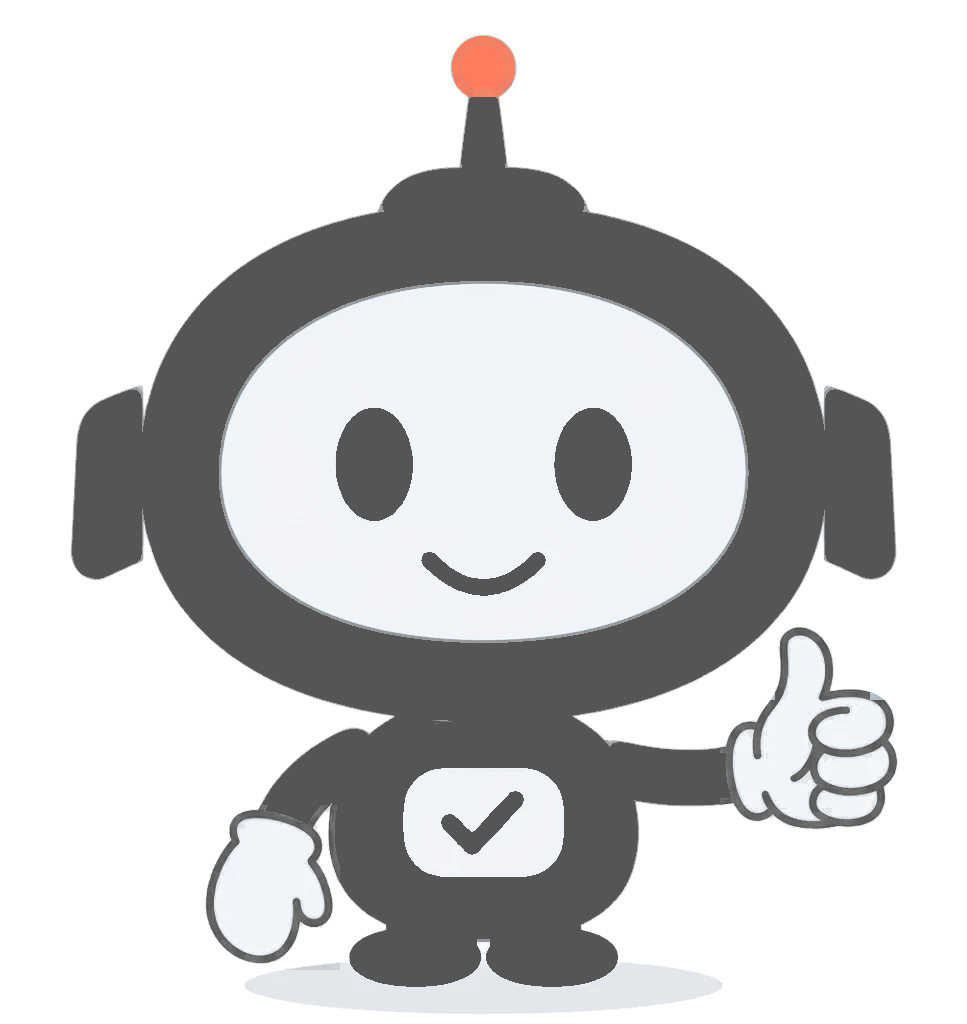
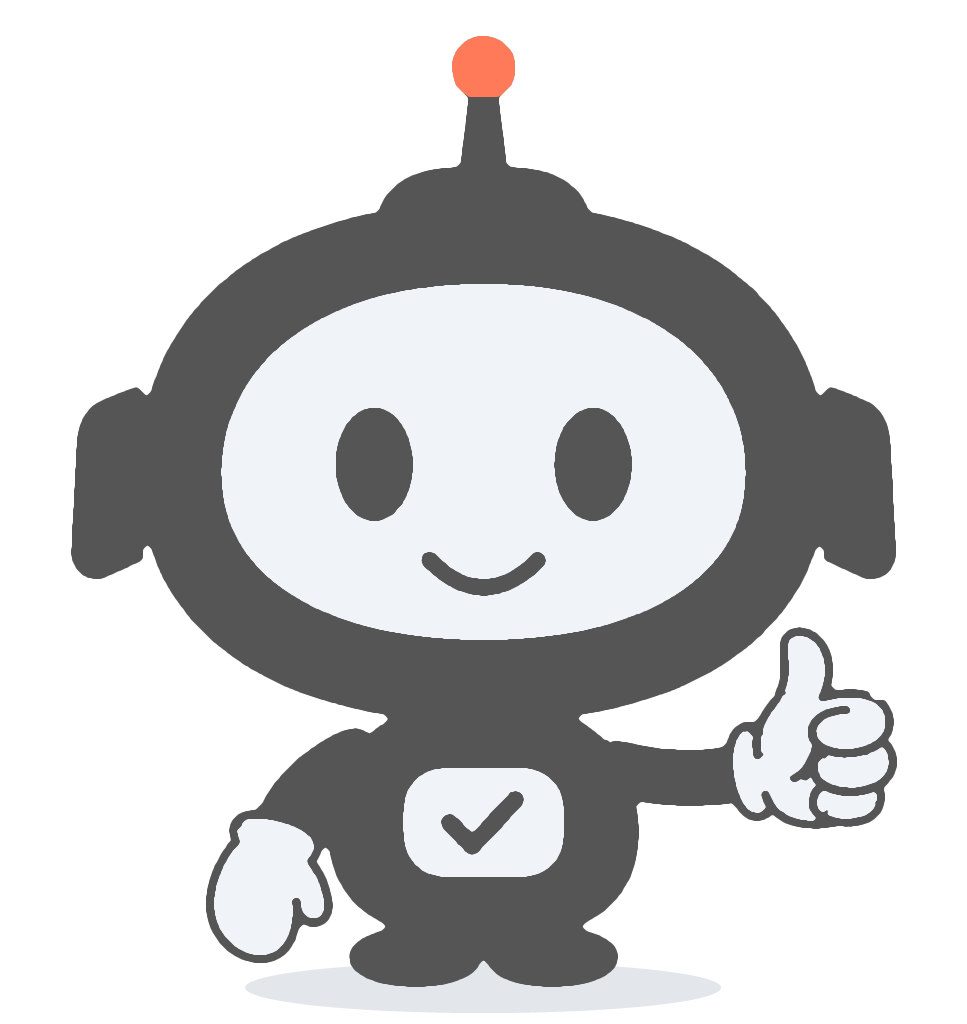
Hero robot: clean up artifacts (light fringes, slivers, noisy edges, clean shadow)

diff --git a/rochdale.html b/rochdale.html
@@ -101,7 +101,7 @@
         </div>
       </div>
       <div class="hero-image">
-        <img src="assets/robot-hero.svg?v=31" alt="WiseRobot mascot giving a thumbs up">
+        <img src="assets/robot-hero.svg?v=32" alt="WiseRobot mascot giving a thumbs up">
       </div>
     </div>
   </div>

diff --git a/index.html b/index.html
@@ -98,7 +98,7 @@
         </div>
       </div>
       <div class="hero-image">
-        <img src="assets/robot-hero.svg?v=31" alt="WiseRobot mascot giving a thumbs up">
+        <img src="assets/robot-hero.svg?v=32" alt="WiseRobot mascot giving a thumbs up">
       </div>
     </div>
   </div>

diff --git a/CLAUDE.md b/CLAUDE.md
@@ -21,5 +21,5 @@ Static HTML/CSS/JS site. Repo: `NoGraviti/wiserobot-website`, branch `main`. Pus
 - Robot mascot: based on the logo head (wide squat head, raised bump with antenna, side pods, tall oval eyes), big head and small pear body, smile, no cheek colour, orange beacon on the antenna, thumbs-up with the right hand, resting hand on the left. Latest version is dark silver with light reflections.
 
 ## Status and open items
-- Hero robot is now `assets/robot-hero.svg` (owner's image recoloured flat #555555 grey with no outlines except the gloves (outlined in the same grey), orange beacon pulses, eyes blink; image embedded, source copy `assets/robot-silver.png`). Loaded by `index.html` and `rochdale.html` with `?v=31`. The old hand-drawn `assets/hero-illustration.svg` is no longer used.
+- Hero robot is now `assets/robot-hero.svg` (owner's image recoloured flat #555555 grey with no outlines except the gloves (outlined in the same grey), orange beacon pulses, eyes blink; image embedded, source copy `assets/robot-silver.png`). Loaded by `index.html` and `rochdale.html` with `?v=32`. The old hand-drawn `assets/hero-illustration.svg` is no longer used.
 - Not yet checked: mobile layout and the other pages after the redesign.
